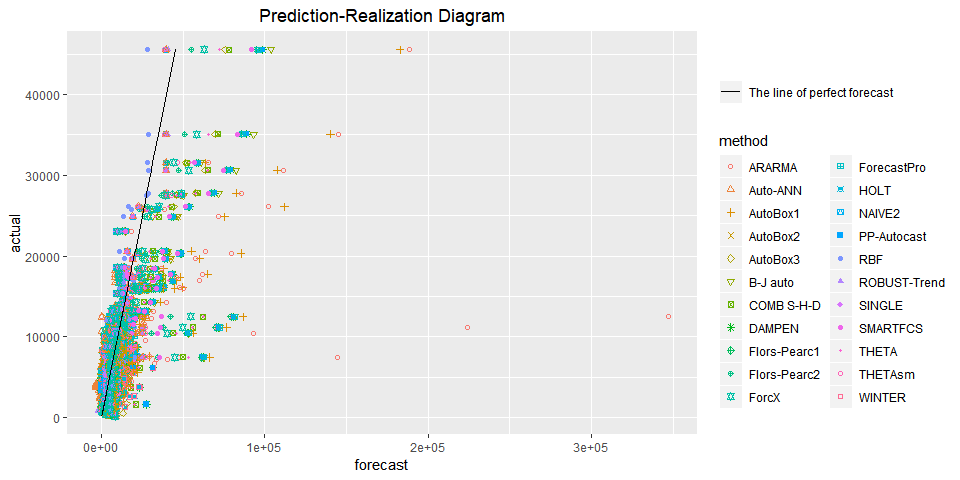
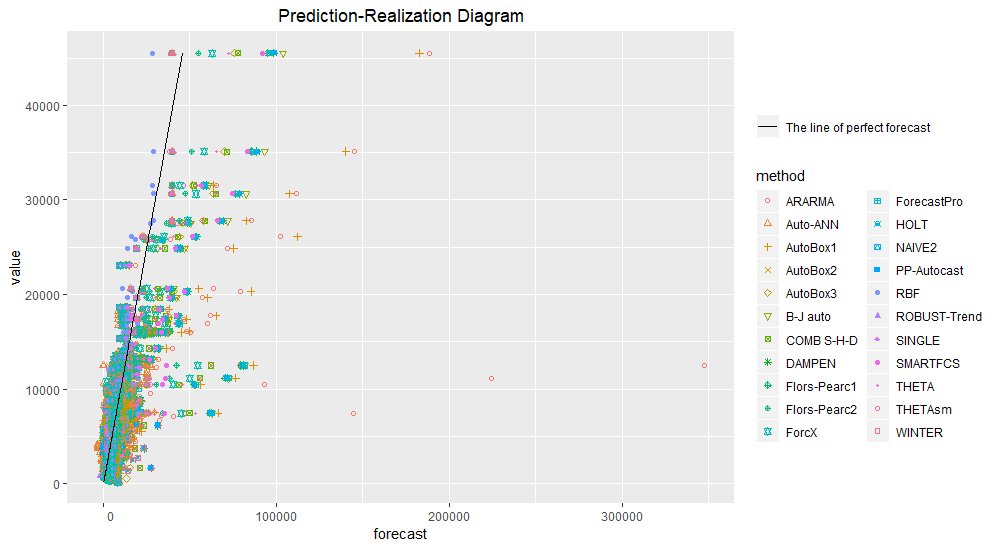
commit 09/12

diff --git a/approach/data-structures/fts/index.html b/approach/data-structures/fts/index.html
@@ -98,6 +98,108 @@
             <i class="fa fa-angle-down fa-lg category-icon"></i><i class="fa fa-circle-thin read-icon"></i>
       </div>
         <ul>
+    <li data-nav-id="/approach/data-flow/" class="dd-item alwaysopen
+        ">
+      <div>
+      <a href="/approach/data-flow/">Data flow</a><i class="fa fa-circle-thin read-icon"></i>
+      </div>
+    </li>
+    <li data-nav-id="/approach/step-by-step-guide/" class="dd-item alwaysopen
+        ">
+      <div>
+      <a href="/approach/step-by-step-guide/">Step-by-step guide</a><i class="fa fa-circle-thin read-icon"></i>
+      </div>
+    </li>
+    <li data-nav-id="/approach/data-structures/" class="dd-item parent alwaysopen haschildren
+        ">
+      <div>
+      <a href="/approach/data-structures/">Data structures</a>
+            <i class="fa fa-angle-down fa-lg category-icon"></i><i class="fa fa-circle-thin read-icon"></i>
+      </div>
+        <ul>
+      <li data-nav-id="/approach/data-structures/tsts/" class="dd-item">
+        <div>
+          <a href="/approach/data-structures/tsts/">
+            Time Series Table Schema (TSTS)
+          </a><i class="fa fa-circle-thin read-icon"></i>
+        </div>
+    </li>
+      <li data-nav-id="/approach/data-structures/fts/" class="dd-item active">
+        <div>
+          <a href="/approach/data-structures/fts/">
+            Forecast Table Schema (FTS)
+          </a><i class="fa fa-circle-thin read-icon"></i>
+        </div>
+    </li>
+      <li data-nav-id="/approach/data-structures/afts/" class="dd-item">
+        <div>
+          <a href="/approach/data-structures/afts/">
+            Actuals and Forecasts Table Schema (AFTS)
+          </a><i class="fa fa-circle-thin read-icon"></i>
+        </div>
+    </li>
+        </ul>
+    </li>
+    <li data-nav-id="/approach/exploratory-tools.md/" class="dd-item alwaysopen haschildren
+        ">
+      <div>
+      <a href="/approach/exploratory-tools.md/">Exploratory analysis tools</a>
+            <i class="fa fa-angle-down fa-lg category-icon"></i><i class="fa fa-circle-thin read-icon"></i>
+      </div>
+        <ul>
+      <li data-nav-id="/approach/exploratory-tools.md/prd/" class="dd-item">
+        <div>
+          <a href="/approach/exploratory-tools.md/prd/">
+            Prediction-Realization Diagram
+          </a><i class="fa fa-circle-thin read-icon"></i>
+        </div>
+    </li>
+      <li data-nav-id="/approach/exploratory-tools.md/fanchart/" class="dd-item">
+        <div>
+          <a href="/approach/exploratory-tools.md/fanchart/">
+            Fanchart
+          </a><i class="fa fa-circle-thin read-icon"></i>
+        </div>
+    </li>
+      <li data-nav-id="/approach/exploratory-tools.md/fixed-origin-graph/" class="dd-item">
+        <div>
+          <a href="/approach/exploratory-tools.md/fixed-origin-graph/">
+            Fixed origin graph
+          </a><i class="fa fa-circle-thin read-icon"></i>
+        </div>
+    </li>
+      <li data-nav-id="/approach/exploratory-tools.md/fixed-horizon-graph/" class="dd-item">
+        <div>
+          <a href="/approach/exploratory-tools.md/fixed-horizon-graph/">
+            Fixed horizon graph
+          </a><i class="fa fa-circle-thin read-icon"></i>
+        </div>
+    </li>
+        </ul>
+    </li>
+    <li data-nav-id="/approach/accuracy-tools/" class="dd-item alwaysopen haschildren
+        ">
+      <div>
+      <a href="/approach/accuracy-tools/"> Performance measurement</a>
+            <i class="fa fa-angle-down fa-lg category-icon"></i><i class="fa fa-circle-thin read-icon"></i>
+      </div>
+        <ul>
+      <li data-nav-id="/approach/accuracy-tools/point-forecast-evaluation/" class="dd-item">
+        <div>
+          <a href="/approach/accuracy-tools/point-forecast-evaluation/">
+             Point forecasts evaluation
+          </a><i class="fa fa-circle-thin read-icon"></i>
+        </div>
+    </li>
+      <li data-nav-id="/approach/accuracy-tools/pis-evaluation/" class="dd-item">
+        <div>
+          <a href="/approach/accuracy-tools/pis-evaluation/">
+            PIs evaluation
+          </a><i class="fa fa-circle-thin read-icon"></i>
+        </div>
+    </li>
+        </ul>
+    </li>
         </ul>
     </li>
     <li data-nav-id="/datasets/" class="dd-item alwaysopen haschildren

diff --git a/audience/index.html b/audience/index.html
@@ -98,108 +98,6 @@
             <i class="fa fa-angle-down fa-lg category-icon"></i><i class="fa fa-circle-thin read-icon"></i>
       </div>
         <ul>
-    <li data-nav-id="/approach/data-flow/" class="dd-item alwaysopen
-        ">
-      <div>
-      <a href="/approach/data-flow/">Data flow</a><i class="fa fa-circle-thin read-icon"></i>
-      </div>
-    </li>
-    <li data-nav-id="/approach/step-by-step-guide/" class="dd-item alwaysopen
-        ">
-      <div>
-      <a href="/approach/step-by-step-guide/">Step-by-step guide</a><i class="fa fa-circle-thin read-icon"></i>
-      </div>
-    </li>
-    <li data-nav-id="/approach/data-structures/" class="dd-item alwaysopen haschildren
-        ">
-      <div>
-      <a href="/approach/data-structures/">Data structures</a>
-            <i class="fa fa-angle-down fa-lg category-icon"></i><i class="fa fa-circle-thin read-icon"></i>
-      </div>
-        <ul>
-      <li data-nav-id="/approach/data-structures/tsts/" class="dd-item">
-        <div>
-          <a href="/approach/data-structures/tsts/">
-            Time Series Table Schema (TSTS)
-          </a><i class="fa fa-circle-thin read-icon"></i>
-        </div>
-    </li>
-      <li data-nav-id="/approach/data-structures/fts/" class="dd-item">
-        <div>
-          <a href="/approach/data-structures/fts/">
-            Forecast Table Schema (FTS)
-          </a><i class="fa fa-circle-thin read-icon"></i>
-        </div>
-    </li>
-      <li data-nav-id="/approach/data-structures/afts/" class="dd-item">
-        <div>
-          <a href="/approach/data-structures/afts/">
-            Actuals and Forecasts Table Schema (AFTS)
-          </a><i class="fa fa-circle-thin read-icon"></i>
-        </div>
-    </li>
-        </ul>
-    </li>
-    <li data-nav-id="/approach/exploratory-tools.md/" class="dd-item alwaysopen haschildren
-        ">
-      <div>
-      <a href="/approach/exploratory-tools.md/">Exploratory analysis tools</a>
-            <i class="fa fa-angle-down fa-lg category-icon"></i><i class="fa fa-circle-thin read-icon"></i>
-      </div>
-        <ul>
-      <li data-nav-id="/approach/exploratory-tools.md/prd/" class="dd-item">
-        <div>
-          <a href="/approach/exploratory-tools.md/prd/">
-            Prediction-Realization Diagram
-          </a><i class="fa fa-circle-thin read-icon"></i>
-        </div>
-    </li>
-      <li data-nav-id="/approach/exploratory-tools.md/fanchart/" class="dd-item">
-        <div>
-          <a href="/approach/exploratory-tools.md/fanchart/">
-            Fanchart
-          </a><i class="fa fa-circle-thin read-icon"></i>
-        </div>
-    </li>
-      <li data-nav-id="/approach/exploratory-tools.md/fixed-origin-graph/" class="dd-item">
-        <div>
-          <a href="/approach/exploratory-tools.md/fixed-origin-graph/">
-            Fixed origin graph
-          </a><i class="fa fa-circle-thin read-icon"></i>
-        </div>
-    </li>
-      <li data-nav-id="/approach/exploratory-tools.md/fixed-horizon-graph/" class="dd-item">
-        <div>
-          <a href="/approach/exploratory-tools.md/fixed-horizon-graph/">
-            Fixed horizon graph
-          </a><i class="fa fa-circle-thin read-icon"></i>
-        </div>
-    </li>
-        </ul>
-    </li>
-    <li data-nav-id="/approach/accuracy-tools/" class="dd-item alwaysopen haschildren
-        ">
-      <div>
-      <a href="/approach/accuracy-tools/"> Performance measurement</a>
-            <i class="fa fa-angle-down fa-lg category-icon"></i><i class="fa fa-circle-thin read-icon"></i>
-      </div>
-        <ul>
-      <li data-nav-id="/approach/accuracy-tools/point-forecast-evaluation/" class="dd-item">
-        <div>
-          <a href="/approach/accuracy-tools/point-forecast-evaluation/">
-             Point forecasts evaluation
-          </a><i class="fa fa-circle-thin read-icon"></i>
-        </div>
-    </li>
-      <li data-nav-id="/approach/accuracy-tools/pis-evaluation/" class="dd-item">
-        <div>
-          <a href="/approach/accuracy-tools/pis-evaluation/">
-            PIs evaluation
-          </a><i class="fa fa-circle-thin read-icon"></i>
-        </div>
-    </li>
-        </ul>
-    </li>
         </ul>
     </li>
     <li data-nav-id="/datasets/" class="dd-item alwaysopen haschildren

diff --git a/approach/exploratory-tools.md/fixed-origin-graph/index.html b/approach/exploratory-tools.md/fixed-origin-graph/index.html
@@ -412,31 +412,31 @@
     
     
     
-    <p>The function <strong>plotFS</strong> of the <a href="https://github.com/forvis/forvision">forvision</a> package plots the fixed origin graph for the given data from dataset.</p>
+    <p>The function <strong>plotFixedOrigin</strong> of the <a href="https://github.com/forvis/forvision">forvision</a> package plots the fixed origin graph for the given data from dataset.</p>
 
-<p>Here’s a fixed origin graph created by the function <strong>plotFS</strong> for time series of id == &ldquo;M1&rdquo;:</p>
+<p>Here’s a fixed origin graph created by the function <strong>plotFixedOrigin</strong> for time series of id = &ldquo;M1&rdquo;:</p>
 
 <pre><code>library(forvision)
-plotFS(fc = AFTS1, id = &quot;M1&quot;)
+plotFixedOrigin(ts = TSTS, id = &quot;M1&quot;)
 </code></pre>
 
-<p><img src="/images/fanchart/1.png" alt="" /></p>
+<p><img src="/images/fixed_origin/1.png" alt="" /></p>
 
 <p>The fixed origin graph with the forecasts of the single forecast method by using the option setting <em>method</em>:</p>
 
 <pre><code>library(forvision)
-plotFS(fc = AFTS1, id = &quot;M1&quot;, method = &quot;AutoBox1&quot;)
+plotFixedOrigin(ts = TSTS, fs = FTS, id = &quot;M1&quot;, origin = &quot;1994-02&quot;, m = &quot;AutoBox1&quot;)
 </code></pre>
 
-<p><img src="/images/fanchart/2.png" alt="" /></p>
+<p><img src="/images/fixed_origin/2.png" alt="" /></p>
 
 <p>The fixed origin graph with the forecasts of the multiple forecast methods by using the option setting <em>method</em>:</p>
 
 <pre><code>library(forvision)
-plotFS(fc = AFTS1, id = &quot;M1&quot;, method = c(&quot;AutoBox1&quot;, &quot;AutoBox3&quot;))  
+plotFixedOrigin(ts = TSTS, fs = FTS, id = &quot;M1&quot;, origin = &quot;1994-02&quot;, m = c(&quot;AutoBox1&quot;, &quot;AutoBox3&quot;)) 
 </code></pre>
 
-<p><img src="/images/fanchart/3.png" alt="" /></p>
+<p><img src="/images/fixed_origin/3.png" alt="" /></p>
 
 <p><strong>To cite this website, please use the following reference:</strong></p>
 

diff --git a/approach/exploratory-tools.md/prd/index.html b/approach/exploratory-tools.md/prd/index.html
@@ -413,22 +413,22 @@
     
     
     <p>The function <strong>plotPRD</strong> of the
-<a href="https://github.com/forvis/forvision">forvision</a> package plots the Prediction-Realization Diagram for the given data from dataset containing columns actual, forecast, and method (AFTS).</p>
+<a href="https://github.com/forvis/forvision">forvision</a> package plots the Prediction-Realization Diagram for the given data from dataset containing columns value, forecast, and method (AFTS).</p>
 
 <p>Here’s a prediction-realization diagram created by the function
 <strong>plotPRD</strong>:</p>
 
 <pre><code>library(forvision)
-plotPRD(AFTS)
+plotPRD(afts)
 </code></pre>
 
 <p><img src="/images/PRD/unnamed-chunk-1-1.png" alt="" /></p>
 
 <p>The resulting prediction-relization digram plotted in logarithmic scales
-by using the option setting <em>useLog</em> ==TRUE:</p>
+by using the option setting <em>useLog</em> = TRUE:</p>
 
 <pre><code>library(forvision)
-plotPRD(AFTS, useLogs = TRUE)
+plotPRD(afts, useLogs = TRUE)
 </code></pre>
 
 <p><img src="/images/PRD/unnamed-chunk-2-1.png" alt="" /></p>
@@ -436,7 +436,7 @@ plotPRD(AFTS, useLogs = TRUE)
 <p>The prediction-realization diagram for the selected methods:</p>
 
 <pre><code># For the methods &quot;ARARMA&quot;, &quot;Auto-ANN&quot;, and &quot;DAMPEN&quot;
-data1 &lt;- subset(AFTS, method == c(&quot;ARARMA&quot;, &quot;Auto-ANN&quot;, &quot;DAMPEN&quot;))
+data1 &lt;- subset(afts, method == c(&quot;ARARMA&quot;, &quot;Auto-ANN&quot;, &quot;DAMPEN&quot;))
 library(forvision)
 plotPRD(data1)
 </code></pre>
@@ -446,7 +446,7 @@ plotPRD(data1)
 <p>The prediction-realization diagram for the selected horizon:</p>
 
 <pre><code># For the horizons 1, 2
-data2 &lt;- subset(AFTS, horizon == 1)
+data2 &lt;- subset(afts, horizon == 1)
 library(forvision)
 plotPRD(data2)
 </code></pre>

diff --git a/approach/exploratory-tools.md/fanchart/index.html b/approach/exploratory-tools.md/fanchart/index.html
@@ -414,13 +414,13 @@
     
     <p>The function <strong>plotFAN</strong> of the <a href="https://github.com/forvis/forvision">forvision</a> package plots the fanchart for the given data from dataset.</p>
 
-<p>Here’s a fanchart created by the function <strong>plotFAN</strong> for time series of id == &ldquo;M1&rdquo;:</p>
+<p>Here’s a fanchart created by the function <strong>plotFAN</strong> for time series of id = &ldquo;M350&rdquo;:</p>
 
 <pre><code>library(forvision)
-plotFAN(ts = TSTS, fc = AFTS, id = &quot;M1&quot;)
+plotFanChart(ts = TSTS, fs = FTS, id = &quot;M350&quot;, origin = &quot;1993-09&quot;, m = &quot;ARIMA&quot;)
 </code></pre>
 
-<p><img src="/images/fanchart/fan.PNG" alt="" /></p>
+<p><img src="/images/fanchart/fan.png" alt="" /></p>
 
 
     

diff --git a/forvision-package/load-data/index.html b/forvision-package/load-data/index.html
@@ -370,6 +370,12 @@
   
     <option value="/forvision-package/" >
    The forvision package for R</option> 
+      <option value="/forvision-package/install/" >- How to download and install</option>
+      <option value="/forvision-package/load-data/"  selected>- Loading data</option>
+      <option value="/forvision-package/data-check/" >- Data integrity checks</option>
+      <option value="/forvision-package/exploratory-analysis/" >- Exploratory analysis</option>
+      <option value="/forvision-package/accuracy-evaluation/" >- Accuracy evaluation</option>
+      <option value="/forvision-package/issues/" >- Problems and Issues</option>
   
     <option value="/publications/" >
    Our publications</option> 

diff --git a/datasets/test-cases/index.html b/datasets/test-cases/index.html
@@ -364,9 +364,6 @@
   
     <option value="/datasets/" >
    Data sets</option> 
-      <option value="/datasets/test-cases/"  selected>- Test cases</option>
-      <option value="/datasets/m3-data/" >- M3-Competition data</option>
-      <option value="/datasets/m3-pis/" >- M3 prediction intervals</option>
   
     <option value="/forvision-package/" >
    The forvision package for R</option> 
